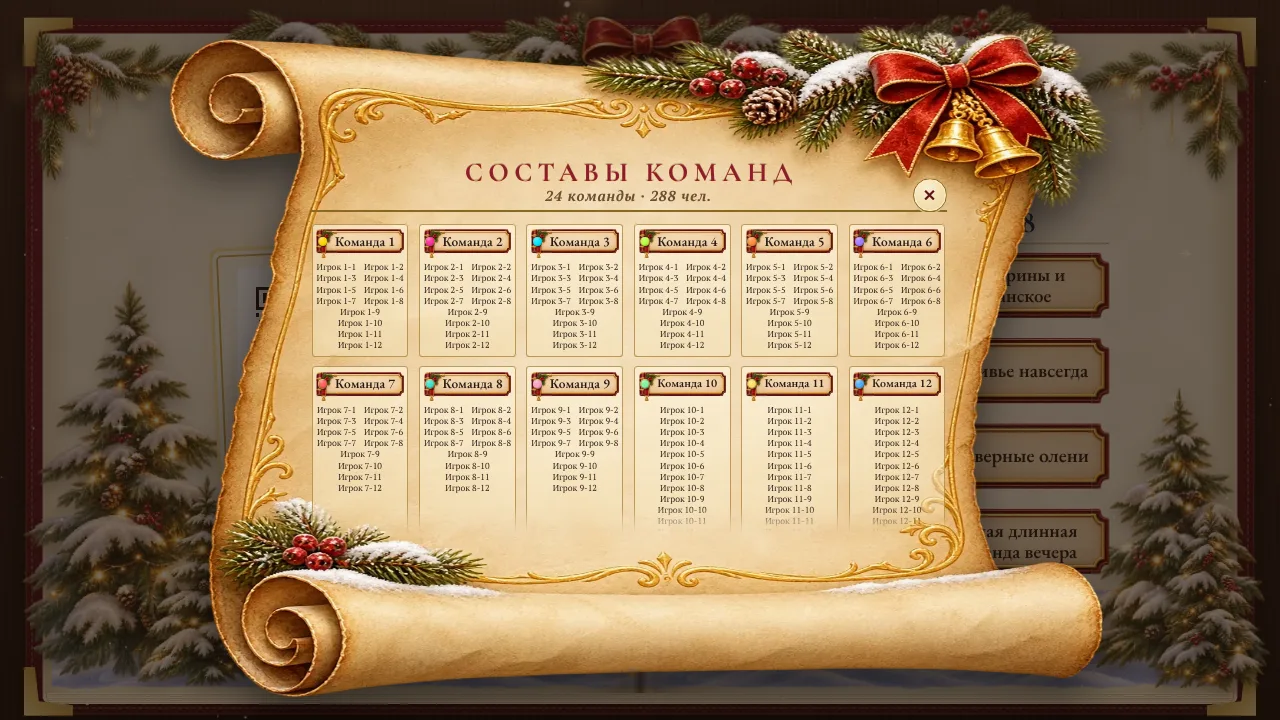
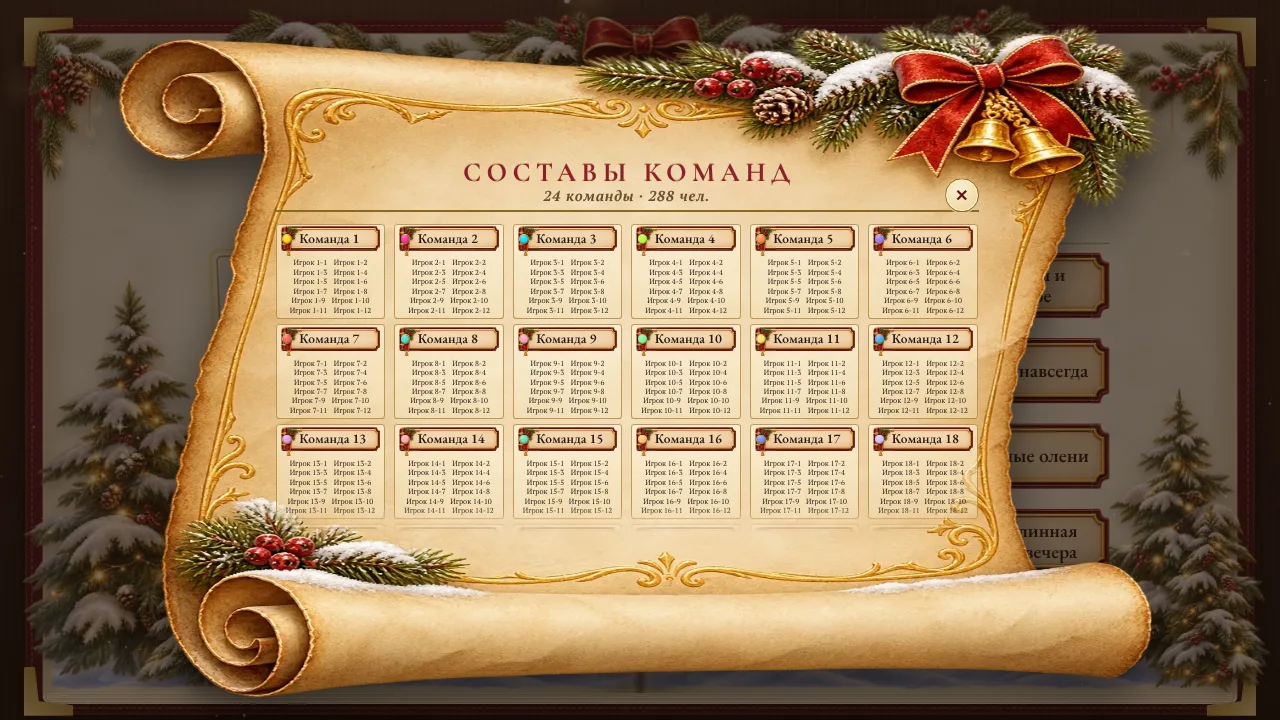
Книга: составы команд — 24 команды помещаются без прокрутки (свиток ×1.55, плотная сетка), проверка «всё внутри области» в скрипте
Claude-Session: https://claude.ai/code/session_015A8DNsb5mr5DpbtnE63fGS

diff --git a/src/styles/parts/41-ny-book.css b/src/styles/parts/41-ny-book.css
@@ -1523,11 +1523,11 @@ html:has(.theme-ny_book .race-screen), body:has(.theme-ny_book .race-screen) { b
 .theme-ny_book.mel-overlay :is(.jp-modal, .mel-modal) .answer-reveal > .answer-main { color: var(--bk-ink-2); font-family: var(--bk-serif); font-weight: 700; text-shadow: none; text-wrap: balance; }
 
 /* ═══ МОДАЛКА «СОСТАВЫ КОМАНД» (рандомайзер) на большом свитке (10.76; BookGroupsModal → ScrollModal kind 'grp') ═══
-   Тот же ассет scroll.webp, что у «Своей игры»/«Угадай мелодию», но растянут по горизонтали в 1.4 раза (сетка 4×2 и 6×4 карточек на квадратном свитке не помещается;
-   бант и рулоны при таком растяжении остаются узнаваемыми). Высота — до 1010u (≈ 94 % сцены), ширина ≈ 1414u (≈ 74 % сцены). Полезная область — внутри золотой рамки:
+   Тот же ассет scroll.webp, что у «Своей игры»/«Угадай мелодию», но растянут по горизонтали в 1.55 раза (сетка 4×2 и 6×4 карточек на квадратном свитке не помещается;
+   бант и рулоны при таком растяжении остаются узнаваемыми). Высота — до 1010u (≈ 94 % сцены), ширина ≈ 1565u (≈ 81 % сцены). Полезная область — внутри золотой рамки:
    слева 15 %, справа 17,5 %, сверху 22,5 %, снизу 24,5 % — бант справа сверху и ветка слева снизу не перекрываются. Анимация разворачивания и reduced-motion — общие (.mel-modal). */
 .theme-ny_book.mel-overlay .mel-modal.grp-modal {
-  --sc-h: min(calc(1010 * var(--u)), 96vh); --sc-w: min(calc(var(--sc-h) * 1.4), 94vw);
+  --sc-h: min(calc(1010 * var(--u)), 96vh); --sc-w: min(calc(var(--sc-h) * 1.55), 94vw);
   width: var(--sc-w); height: var(--sc-h); max-width: 94vw; align-items: stretch; gap: calc(var(--sc-h) * .012);
   padding: calc(var(--sc-h) * .2) calc(var(--sc-w) * .175) calc(var(--sc-h) * .245) calc(var(--sc-w) * .15) !important; }
 .theme-ny_book .bk-gm-head { position: relative; flex: none; display: flex; justify-content: center; padding-bottom: calc(var(--sc-h) * .008); border-bottom: calc(3 * var(--u)) double var(--bk-gold-3); }
@@ -1542,8 +1542,8 @@ html:has(.theme-ny_book .race-screen), body:has(.theme-ny_book .race-screen) { b
 .theme-ny_book .bk-gm-scroll { flex: 1 1 0; min-height: 0; overflow-y: auto; overflow-x: hidden; display: flex; flex-direction: column; scrollbar-width: none; padding: calc(var(--sc-h) * .006) calc(2 * var(--u)); }
 .theme-ny_book .bk-gm-scroll::-webkit-scrollbar { display: none; }
 .theme-ny_book .bk-gm-scroll[data-over="1"] { -webkit-mask-image: linear-gradient(180deg, #000 calc(100% - 38 * var(--u)), transparent); mask-image: linear-gradient(180deg, #000 calc(100% - 38 * var(--u)), transparent); }
-.theme-ny_book .bk-gm-grid { display: grid; grid-template-columns: repeat(var(--gm-cols), minmax(0, var(--gm-cw, 1fr))); justify-content: center; gap: calc(14 * var(--u)) calc(16 * var(--u)); margin-block: auto; align-items: stretch; }
-.theme-ny_book .bk-gm-team { min-width: 0; display: flex; flex-direction: column; align-items: stretch; gap: calc(6 * var(--u)); padding: calc(8 * var(--u)) calc(7 * var(--u)) calc(10 * var(--u));
+.theme-ny_book .bk-gm-grid { display: grid; grid-template-columns: repeat(var(--gm-cols), minmax(0, var(--gm-cw, 1fr))); justify-content: center; gap: calc(var(--gm-gy, 14) * var(--u)) calc(14 * var(--u)); margin-block: auto; align-items: stretch; }
+.theme-ny_book .bk-gm-team { min-width: 0; display: flex; flex-direction: column; align-items: stretch; gap: calc(var(--gm-in, 6) * var(--u)); padding: calc(var(--gm-in, 6) * var(--u)) calc(7 * var(--u)) calc(var(--gm-pb, 10) * var(--u));
   background: linear-gradient(180deg, rgba(255, 248, 226, .62), rgba(244, 226, 183, .5)); border-radius: calc(5 * var(--u)); box-shadow: inset 0 0 0 calc(1.5 * var(--u)) rgba(168, 128, 52, .75); }
 .theme-ny_book .bk-gm-players { margin: 0; display: flex; flex-wrap: wrap; justify-content: center; align-content: flex-start; gap: calc(1 * var(--u)) .9em; text-align: center; font: 500 calc(var(--gm-fs) * var(--gm-k, 1) * var(--u)) / 1.2 var(--bk-serif); color: var(--bk-ink); overflow-wrap: normal; word-break: normal; hyphens: none; }
 .theme-ny_book .bk-gm-p { min-width: 0; max-width: 100%; text-wrap: balance; overflow-wrap: anywhere; }   /* имя — одним куском; не влезает в ячейку — переносится по словам внутри себя */

diff --git a/src/ny/book/BookGroupsModal.tsx b/src/ny/book/BookGroupsModal.tsx
@@ -11,14 +11,14 @@ import { teamColor } from '../../lib/teamColors'
 export function BookGroupsModal({ groups, onClose }: { groups: string[][]; onClose: () => void }) {
   const players = groups.reduce((n, g) => n + g.length, 0)
   const lay = groupsLayout(groups.length)
-  // Состав не поместился — сначала ужимаем кегль списка (--gm-k, не мельче 13u: проектор без мыши, прокрутить нечем),
+  // Состав не поместился — сначала ужимаем кегль списка (--gm-k, не мельче 11u: проектор без мыши, прокрутить нечем),
   // и только если и так не влезает — внутри свитка включается прокрутка, а низ мягко гаснет (data-over).
   const scrollRef = useRef<HTMLDivElement>(null)
   useEffect(() => {
     const el = scrollRef.current
     const grid = el?.firstElementChild as HTMLElement | null
     if (!el || !grid) return
-    const floor = Math.max(0.6, 13 / lay.fs)
+    const floor = Math.max(0.5, 11 / lay.fs)
     const fit = () => {
       let k = 1
       grid.style.setProperty('--gm-k', '1')
@@ -41,7 +41,7 @@ export function BookGroupsModal({ groups, onClose }: { groups: string[][]; onClo
         <button className="bk-gm-close" onClick={onClose} aria-label="Закрыть">✕</button>
       </div>
       <div className="bk-gm-scroll" ref={scrollRef}>
-        <div className="bk-gm-grid" data-count={groups.length} style={{ '--gm-cols': lay.cols, '--gm-fs': lay.fs, '--gm-cw': lay.cell ? `calc(${lay.cell} * var(--u))` : '1fr' } as CSSProperties}>
+        <div className="bk-gm-grid" data-count={groups.length} style={{ '--gm-cols': lay.cols, '--gm-fs': lay.fs, '--gm-cw': lay.cell ? `calc(${lay.cell} * var(--u))` : '1fr', ...(lay.tight ? { '--gm-gy': 8, '--gm-in': 4, '--gm-pb': 6 } : {}) } as CSSProperties}>
           {groups.map((g, i) => (
             <div key={i} className="bk-gm-team">
               <BookTeamCard name={`Команда ${i + 1}`} ch={lay.ch} color={teamColor(i)} />

diff --git a/src/ny/__tests__/groupsLayout.test.ts b/src/ny/__tests__/groupsLayout.test.ts
@@ -11,16 +11,16 @@ describe('groupsLayout', () => {
       prev = l
     }
   })
-  it('1–24 команд: колонок ≥ 1, плитка ≥ 44u, список ≥ 15u; ширина под имя плитки (колонка − 0,96·ch) ≥ 80u при области 930u', () => {
+  it('1–24 команд: колонок ≥ 1, плитка ≥ 44u, список ≥ 15u; ширина под имя плитки (колонка − 0,96·ch) ≥ 80u при области 1050u', () => {
     for (let n = 1; n <= 24; n++) {
       const l = groupsLayout(n)
       expect(l.cols).toBeGreaterThanOrEqual(1); expect(l.ch).toBeGreaterThanOrEqual(44); expect(l.fs).toBeGreaterThanOrEqual(15)
-      const col = l.cell || (930 - 16 * (l.cols - 1)) / l.cols
+      const col = l.cell || (1050 - 16 * (l.cols - 1)) / l.cols
       expect(col - 14 - 0.96 * l.ch).toBeGreaterThanOrEqual(80)
     }
   })
-  it('предел ширины ячейки: сетка с пределом не шире области 930u', () => {
-    for (let n = 1; n <= 24; n++) { const l = groupsLayout(n); if (l.cell) expect(l.cell * l.cols + 16 * (l.cols - 1)).toBeLessThanOrEqual(930) }
+  it('предел ширины ячейки: сетка с пределом не шире области 1050u', () => {
+    for (let n = 1; n <= 24; n++) { const l = groupsLayout(n); if (l.cell) expect(l.cell * l.cols + 16 * (l.cols - 1)).toBeLessThanOrEqual(1050) }
   })
   it('не больше 6 колонок; 0 и дробь не ломают функцию', () => {
     expect(groupsLayout(0).cols).toBe(1); expect(groupsLayout(100).cols).toBeLessThanOrEqual(6); expect(groupsLayout(4.9).cols).toBe(2)

diff --git a/src/ny/book/groupsLayout.ts b/src/ny/book/groupsLayout.ts
@@ -12,6 +12,8 @@ export interface GroupsLayout {
   fs: number
   /** предел ширины ячейки (--u): при 1–4 командах карточки не растягиваются на весь свиток; 0 — без предела */
   cell: number
+  /** плотная сетка (13–24 команды): меньше отступы между и внутри карточек, всё обязано поместиться без прокрутки */
+  tight?: boolean
 }
 
 export function groupsLayout(n: number): GroupsLayout {
@@ -24,8 +26,8 @@ export function groupsLayout(n: number): GroupsLayout {
   if (t <= 8) return { cols: 4, ch: 76, fs: 22, cell: 0 }
   if (t === 9) return { cols: 3, ch: 66, fs: 21, cell: 0 }
   if (t <= 12) return { cols: 4, ch: 62, fs: 20, cell: 0 }
-  if (t <= 18) return { cols: 6, ch: 46, fs: 17, cell: 0 }
-  return { cols: 6, ch: 44, fs: 15, cell: 0 }
+  if (t <= 18) return { cols: 6, ch: 50, fs: 19, cell: 0, tight: true }
+  return { cols: 6, ch: 44, fs: 17, cell: 0, tight: true }
 }
 
 /** «1 команда · 2–4 команды · 5+ команд» */

diff --git a/HANDOFF.md b/HANDOFF.md
@@ -1648,15 +1648,15 @@ Share на самой странице.
 
 **Что сделано (только `ny_book`; остальные темы — тот же JSX и CSS, что были).**
 - `GroupsModal` (`HostScreen.tsx`) после хуков (Esc остаётся там) для `book` возвращает `BookGroupsModal` (`src/ny/book/BookGroupsModal.tsx`): `ScrollModal` с новым `kind="grp"` и новым необязательным `onClose` (клик по затемнению закрывает, клик внутри свитка не всплывает; у jp/mel-модалок `onClose` не передаётся — они не изменились). Логика открытия/закрытия, `groupsKey`, данные, `teamColor(i)` — как были; ветка `book` внутри старой разметки удалена (мёртвая).
-- Тот же ассет `scroll.webp`, нового нет. Но свиток **растянут по горизонтали в 1.4 раза** (`--sc-w = --sc-h·1.4`, `--sc-h = min(1010u, 96vh)`): на квадратном (1230×1185) свитке сетка 4×2 и 6×4 карточек не помещается. Итог — ≈ 74 % ширины и 94 % высоты окна (не 80–85 % ширины: без растяжения в 1.5+ раза не получить, бант и рулоны уже заметно шире исходных — можно показывать ведущему и решать). Бант справа сверху и ветка слева снизу не перекрываются: поля внутри рамки — слева 15 %, справа 17,5 % ширины, сверху 20 %, снизу 24,5 % высоты (ветка слева снизу заходит выше, чем у остальных модалок, — поэтому низ больше, чем у `.mel-modal`).
+- Тот же ассет `scroll.webp`, нового нет. Но свиток **растянут по горизонтали в 1.55 раза** (`--sc-w = --sc-h·1.55`, `--sc-h = min(1010u, 96vh)`): на квадратном (1230×1185) свитке сетка 4×2 и 6×4 карточек не помещается. Итог — ≈ 82 % ширины (на 1899×905 — 69 %: там ограничивает высота окна) и 94 % высоты окна. Бант и рулоны заметно шире исходных — решение ведущего. Бант справа сверху и ветка слева снизу не перекрываются: поля внутри рамки — слева 15 %, справа 17,5 % ширины, сверху 20 %, снизу 24,5 % высоты (ветка слева снизу заходит выше, чем у остальных модалок, — поэтому низ больше, чем у `.mel-modal`).
 - Шапка: «СОСТАВЫ КОМАНД» красной разрядкой с золотым тиснением (text-shadow), под ней мелко «8 команд · 35 чел.» (склонение `teamsWord`), двойная золотая линия, круглый крестик справа (`.bk-gm-close`, ховер — красный). Крестик опущен ниже колокольчиков банта.
-- Сетка `groupsLayout(n)` (чистая, `src/ny/book/groupsLayout.ts`, тест `src/ny/__tests__/groupsLayout.test.ts`): колонки/высота плитки/кегль списка по числу команд (1→1×1, 2→2, 3→3, 4→2×2, 5–6→3, 7–8→4, 9→3, 10–12→4, 13–18→6, 19–24→6); при ≤ 4 командах предел ширины ячейки (`cell`), чтобы плитка не растягивалась на весь свиток. Карточка = `BookTeamCard` (цвет/значок как было, ничего не менялось) + список участников: имена — отдельными кусками (flex-wrap, зазор), длинное имя переносится по словам внутри себя, слово шире ячейки — крайняя мера `overflow-wrap: anywhere`.
-- **Подгонка до прокрутки.** Проектор без мыши: прокрутить нечем. Поэтому `BookGroupsModal` сначала ужимает кегль списка (`--gm-k` от 1 до `max(0.6, 13/fs)`, шаг 0.04, цикл по `scrollHeight` в эффекте, `ResizeObserver` на ОБЛАСТИ — её размер от `--gm-k` не зависит, поэтому не зацикливается), и только если и так не влезло — включается прокрутка внутри свитка с мягким градиентом снизу (`data-over="1"`). Плитку команды не ужимает.
+- Сетка `groupsLayout(n)` (чистая, `src/ny/book/groupsLayout.ts`, тест `src/ny/__tests__/groupsLayout.test.ts`): колонки/высота плитки/кегль списка по числу команд (1→1×1, 2→2, 3→3, 4→2×2, 5–6→3, 7–8→4, 9→3, 10–12→4, 13–18→6 (ch 50, fs 19), 19–24→6 (ch 44, fs 17); для 13–24 `tight`: меньше отступы); при ≤ 4 командах предел ширины ячейки (`cell`), чтобы плитка не растягивалась на весь свиток. Карточка = `BookTeamCard` (цвет/значок как было, ничего не менялось) + список участников: имена — отдельными кусками (flex-wrap, зазор), длинное имя переносится по словам внутри себя, слово шире ячейки — крайняя мера `overflow-wrap: anywhere`.
+- **Подгонка до прокрутки.** Проектор без мыши: прокрутить нечем. Поэтому `BookGroupsModal` сначала ужимает кегль списка (`--gm-k` от 1 до `max(0.5, 11/fs)`, шаг 0.04, цикл по `scrollHeight` в эффекте, `ResizeObserver` на ОБЛАСТИ — её размер от `--gm-k` не зависит, поэтому не зацикливается), и только если и так не влезло — включается прокрутка внутри свитка с мягким градиентом снизу (`data-over="1"`). Плитку команды не ужимает.
 - Анимация открытия — общая `bk-unroll` из `.mel-modal` (в `prefers-reduced-motion` общее правило `animation` даёт `none` — измерено: `animationName: none`, кадр сразу). Затемнение — `.theme-ny_book.mel-overlay` (`rgba(18,27,47,.5)`, как у «Своей игры»/мелодии); размытия фона, как было у старой модалки, больше нет.
 - Старые правила `.theme-ny_book .groups-overlay/.groups-modal/.lg-team` в `41-ny-book.css` (строки ~56–57, ~1009–1027) для «Книги» теперь мертвы (элемент не рисуется) — не удалены, бэклог.
 
 **Ловушки.** (1) «0 участников в команде» недостижимо: `HostScreen` фильтрует пустые группы (`filter(g => g.length > 0)`), в компоненте оставлена строка «состав пока пуст» на всякий случай. (2) Дефис — разрешённая точка переноса браузера («Игрок 1-3» рвалось на «1-» и «3»): имена заворачивать в куски (flex-items), а не склеивать в одну строку через « · ». (3) У `.mel-modal` в «Книге» padding задан с `!important` в двух местах — своё переопределение `.mel-modal.grp-modal` тоже с `!important` и бóльшим весом. (4) Бант: границы зон в замере считаются по долям ассета (хвоя x .44–.80W/y<.175H, бант и колокольчики x>.80W/y<.232H, ветка x<.34W/y>.755H); крестик касается угла зоны колокольчика на ≈ 91 px² (скруглённый колокольчик в прямоугольной зоне — визуально не задевает).
 
-**Проверка.** `e2e/book/team-modal-check.cjs` (`QP_BOOK_PORT=<свой> QP_BOOK_SCRATCH=<свой> NODE_PATH=/opt/node22/lib/node_modules PLAYWRIGHT_BROWSERS_PATH=/opt/pw-browsers node e2e/book/team-modal-check.cjs [--no-build] [--vp …] [--n …] [--profile norm,mix,long,big] [--shots <каталог>] [--reduced]`): 4 окна (1920×1080, 1366×768, 1280×720, 1899×905) × 1/4/8/16/24 команд × 4 состава (4 игрока; 1/2/12/4; длинные имена «Мария-Луиза Фон-Штольц-Бернштейн» и «Достопочтенный Константин Константинопольский»; 12 каждой) = 80 случаев, 0 ошибок: свиток внутри окна, шапка/сетка мимо банта и ветки, карточки не пересекаются и не вылезают из области, список внутри ячейки, слова короче 15 знаков не рвутся, `data-over` согласован с прокруткой; Esc и клик по фону закрывают во всех окнах; reduced-motion — `animationName: none`. Кадры «до/после» — `docs-dev/book-redesign/shots/team-modal-20261128/` (`before-*`, `after-*`, `check-80cases.log`).
+**Проверка.** `e2e/book/team-modal-check.cjs` (`QP_BOOK_PORT=<свой> QP_BOOK_SCRATCH=<свой> NODE_PATH=/opt/node22/lib/node_modules PLAYWRIGHT_BROWSERS_PATH=/opt/pw-browsers node e2e/book/team-modal-check.cjs [--no-build] [--vp …] [--n …] [--profile norm,mix,long,big] [--shots <каталог>] [--reduced]`): 4 окна (1920×1080, 1366×768, 1280×720, 1899×905) × 1/4/8/16/24 команд × 4 состава (4 игрока; 1/2/12/4; длинные имена «Мария-Луиза Фон-Штольц-Бернштейн» и «Достопочтенный Константин Константинопольский»; 12 каждой) = 80 случаев, 0 ошибок: свиток внутри окна, шапка/сетка мимо банта и ветки, карточки не пересекаются и не вылезают из области, список внутри ячейки, слова короче 15 знаков не рвутся, `data-over` согласован с прокруткой; Esc и клик по фону закрывают во всех окнах; при составе «4 игрока» (norm) на 1–24 командах ВСЕ карточки целиком в пергаментной области (область кончается на .755 высоты свитка, рулон начинается ≈ .80) и прокрутка не включается — это условие в скрипте (правка по кадру ведущего: на 24 командах нижний ряд раньше уходил под градиент); reduced-motion — `animationName: none`. Кадры «до/после» — `docs-dev/book-redesign/shots/team-modal-20261128/` (`before-*`, `after-*`, `check-80cases.log`).
 
-**Не проверено / бэклог.** Размер 3840×2160 не снимался; другие темы рендером не проверялись (код-путь для них не менялся: `book` ложно → прежняя разметка); на 1280×720 при 16–24 командах список 8,7–9,5 px (нижний предел 13u) — на проекторе 1080p и выше ≥ 13 px; живое устройство/ТВ не пробовалось; растяжение свитка ×1.4 — решение ведущего; мёртвые правила `.groups-*` для «Книги» убрать; версия и `public/sw.js` не бампнуты — по заданию.
+**Не проверено / бэклог.** Размер 3840×2160 не снимался; другие темы рендером не проверялись (код-путь для них не менялся: `book` ложно → прежняя разметка); на 1280×720 при 24 командах список ≈ 8,6 px (1080p — 12,9 px; кегль ужимается под область, нижний предел 11u); живое устройство/ТВ не пробовалось; растяжение свитка ×1.4 — решение ведущего; мёртвые правила `.groups-*` для «Книги» убрать; версия и `public/sw.js` не бампнуты — по заданию.

diff --git a/CLAUDE.md b/CLAUDE.md
@@ -65,7 +65,7 @@ React + TypeScript + Vite, Supabase (**только REST-поллинг, без
 | `lib/teamIcon.ts` + `components/TeamMark.tsx` + `public/emoji/` | значок команды ОДНИМ набором картинок (Twemoji SVG, 45 штук = список `teamEmoji.ts`) на телефоне, в админке и на проекторе всех тем; `TeamMark` = кольцо выбранного цвета + значок. Эмодзи текстом НЕ рисовать — шрифт устройства даёт разный вид (HANDOFF §3ew) |
 | `lib/crosswordFit.ts` + `components/PlayerCrossword.tsx` | кроссворд на телефоне игрока: клетка по измеренной области, `position: sticky`-панель, высота от `visualViewport`, зум (щипок/двойной тап/+/−), автоподкрутка к слову; математика без DOM — HANDOFF §3ex |
 | `lib/voiceLoader.ts` + `voicePreload.ts` + `hooks/useVoicePreload.ts` | озвучки пака (вопросы, ответы, правила) качаются в память проектора заранее (очередь по 2, повторы, вытеснение отыгранных) и играют из blob: `voiceSrc(path)`/`voiceSrcFromUrl(url)`; статус «загружено N из M» и остановки звука (`audioStall.ts`) пишутся проектором в `melody.voice`, пульт показывает строку (`VoiceStatusLine`) — HANDOFF §3fc |
-| `ny/book/BookGroupsModal.tsx` + `groupsLayout.ts` | модалка «СОСТАВЫ КОМАНД» рандомайзера в «Книге»: большой свиток (`ScrollModal` kind `grp`, растянут по ширине ×1.4), сетка карточек по числу команд, подгонка кегля списка, прокрутка только крайняя мера — HANDOFF §3fj |
+| `ny/book/BookGroupsModal.tsx` + `groupsLayout.ts` | модалка «СОСТАВЫ КОМАНД» рандомайзера в «Книге»: большой свиток (`ScrollModal` kind `grp`, растянут по ширине ×1.55), сетка карточек по числу команд, подгонка кегля списка, прокрутка только крайняя мера — HANDOFF §3fj |
 | `lib/media.ts` | `mediaUrl`, `lenClass`, `mediaScaleVar` — общие для всех экранов |
 | `lib/questionFields.ts` | какие поля вопроса показывать для механики |
 | `components/Hint.tsx` | подсказки при ошибочных действиях (не блокируют) |
